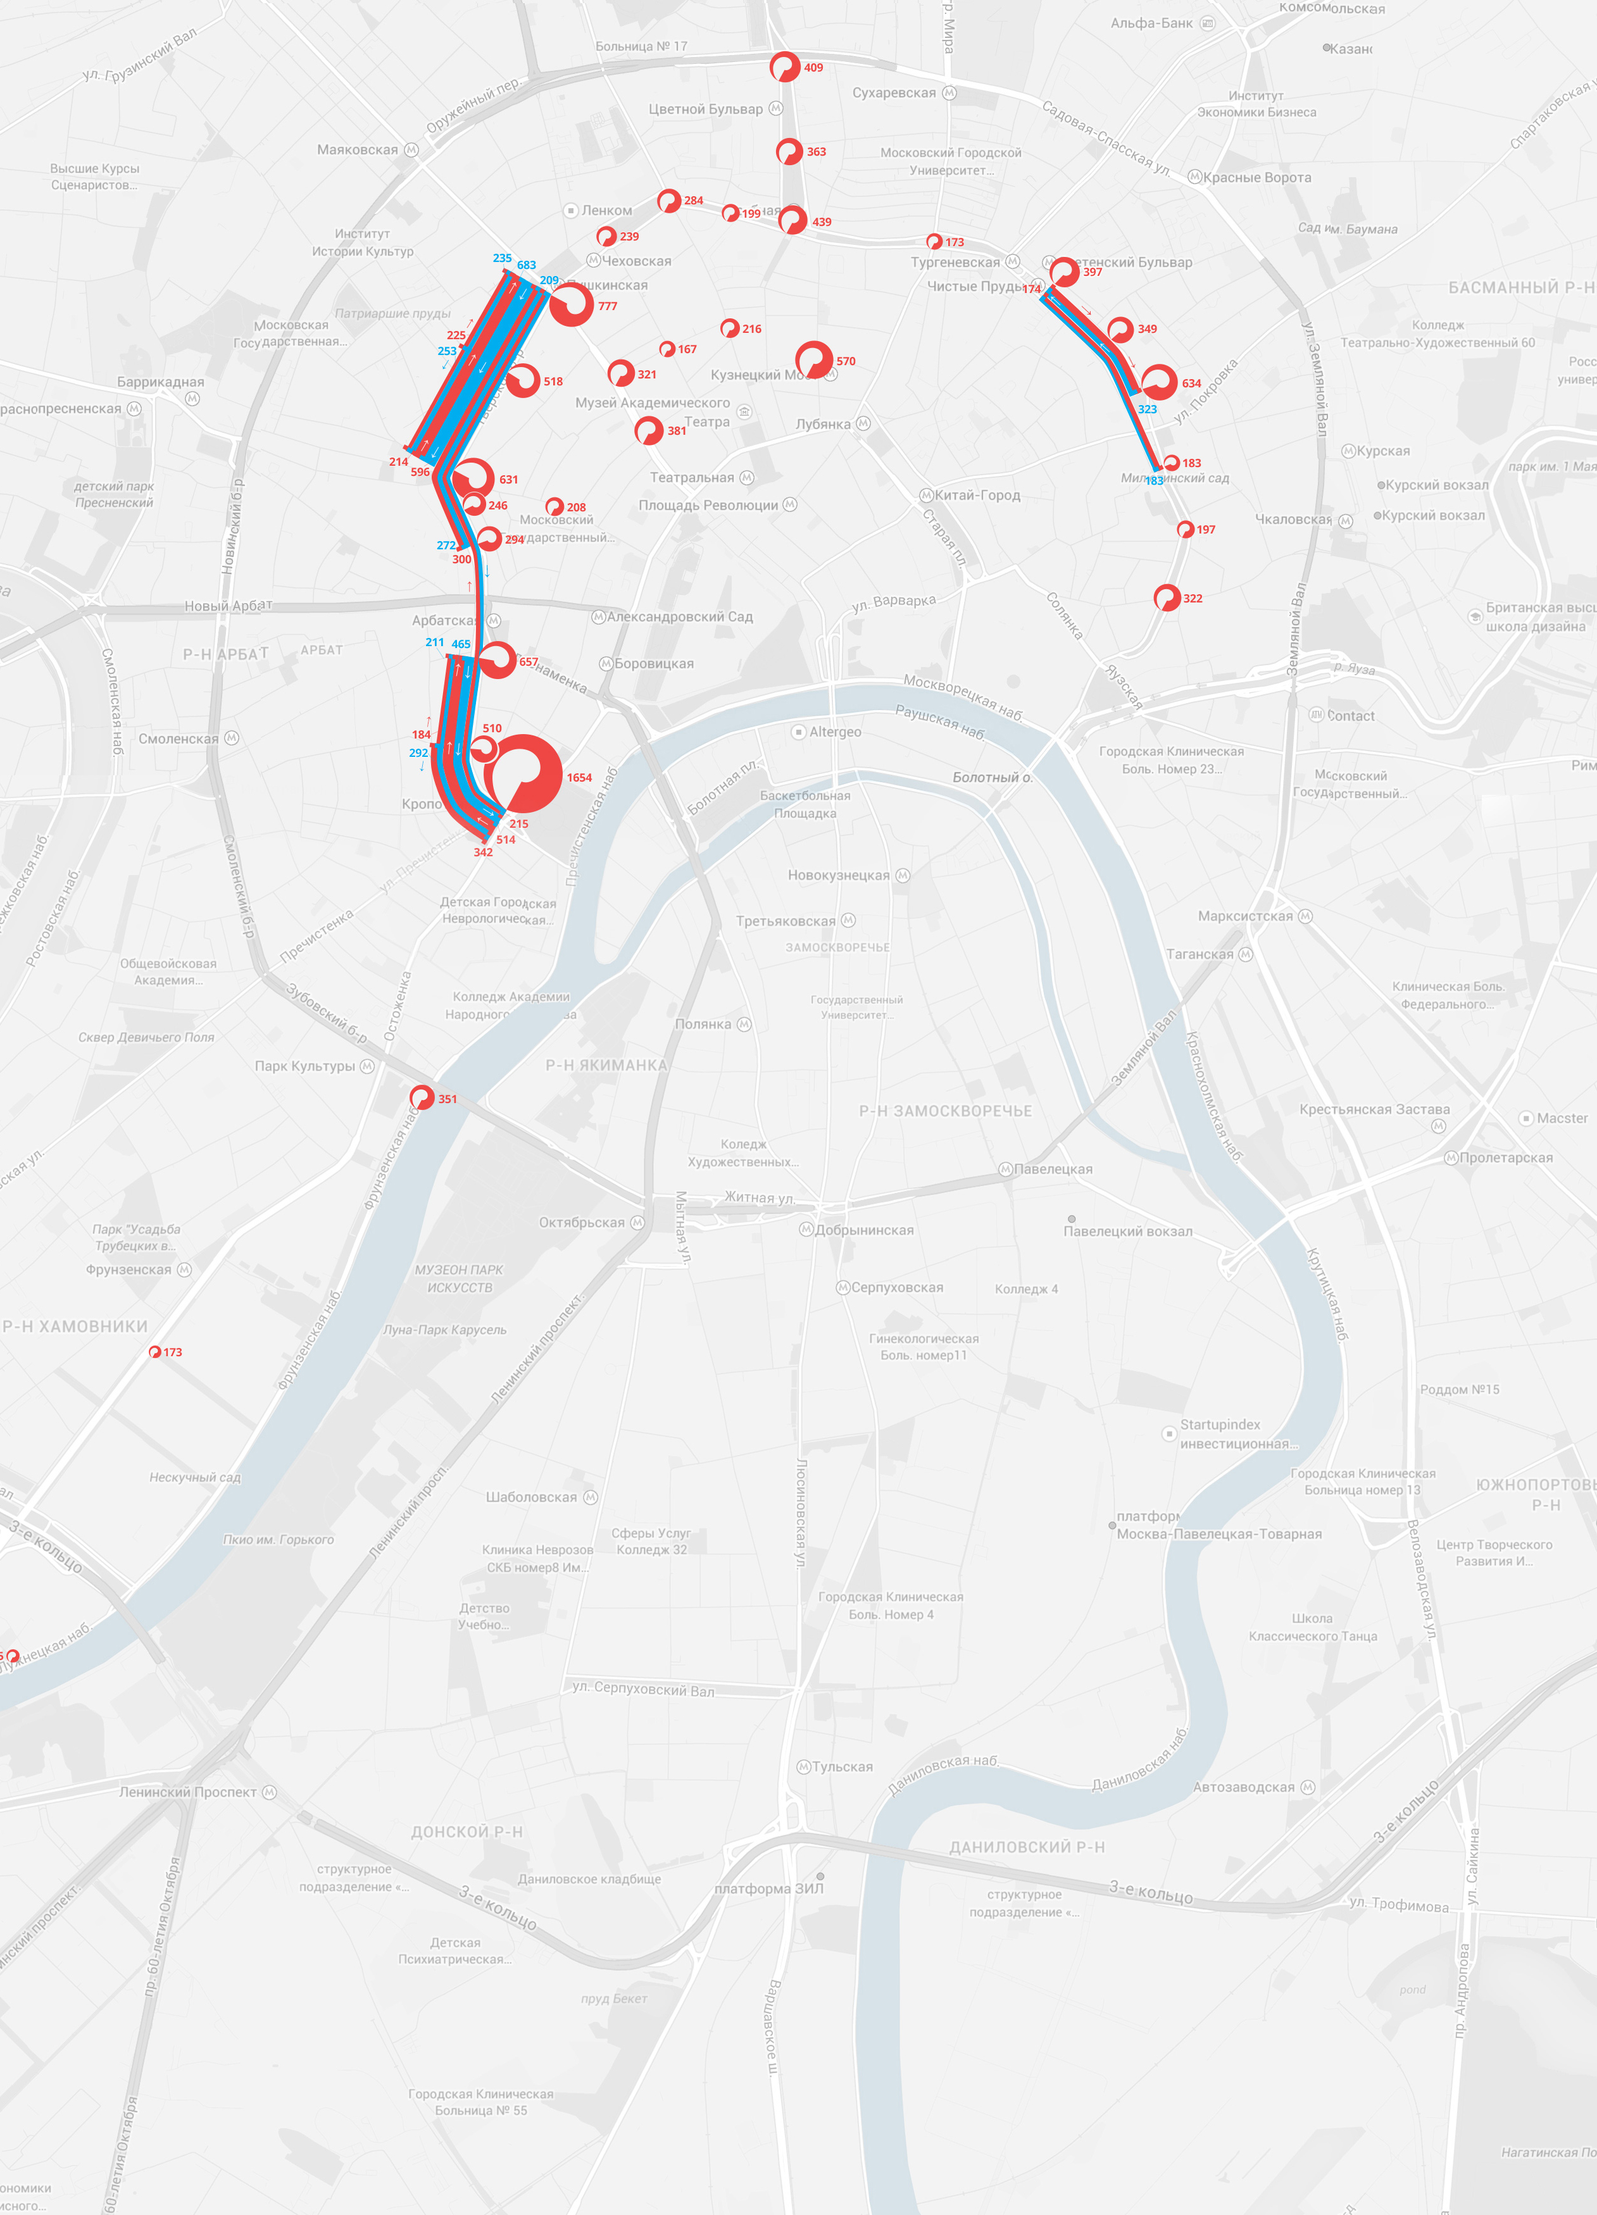
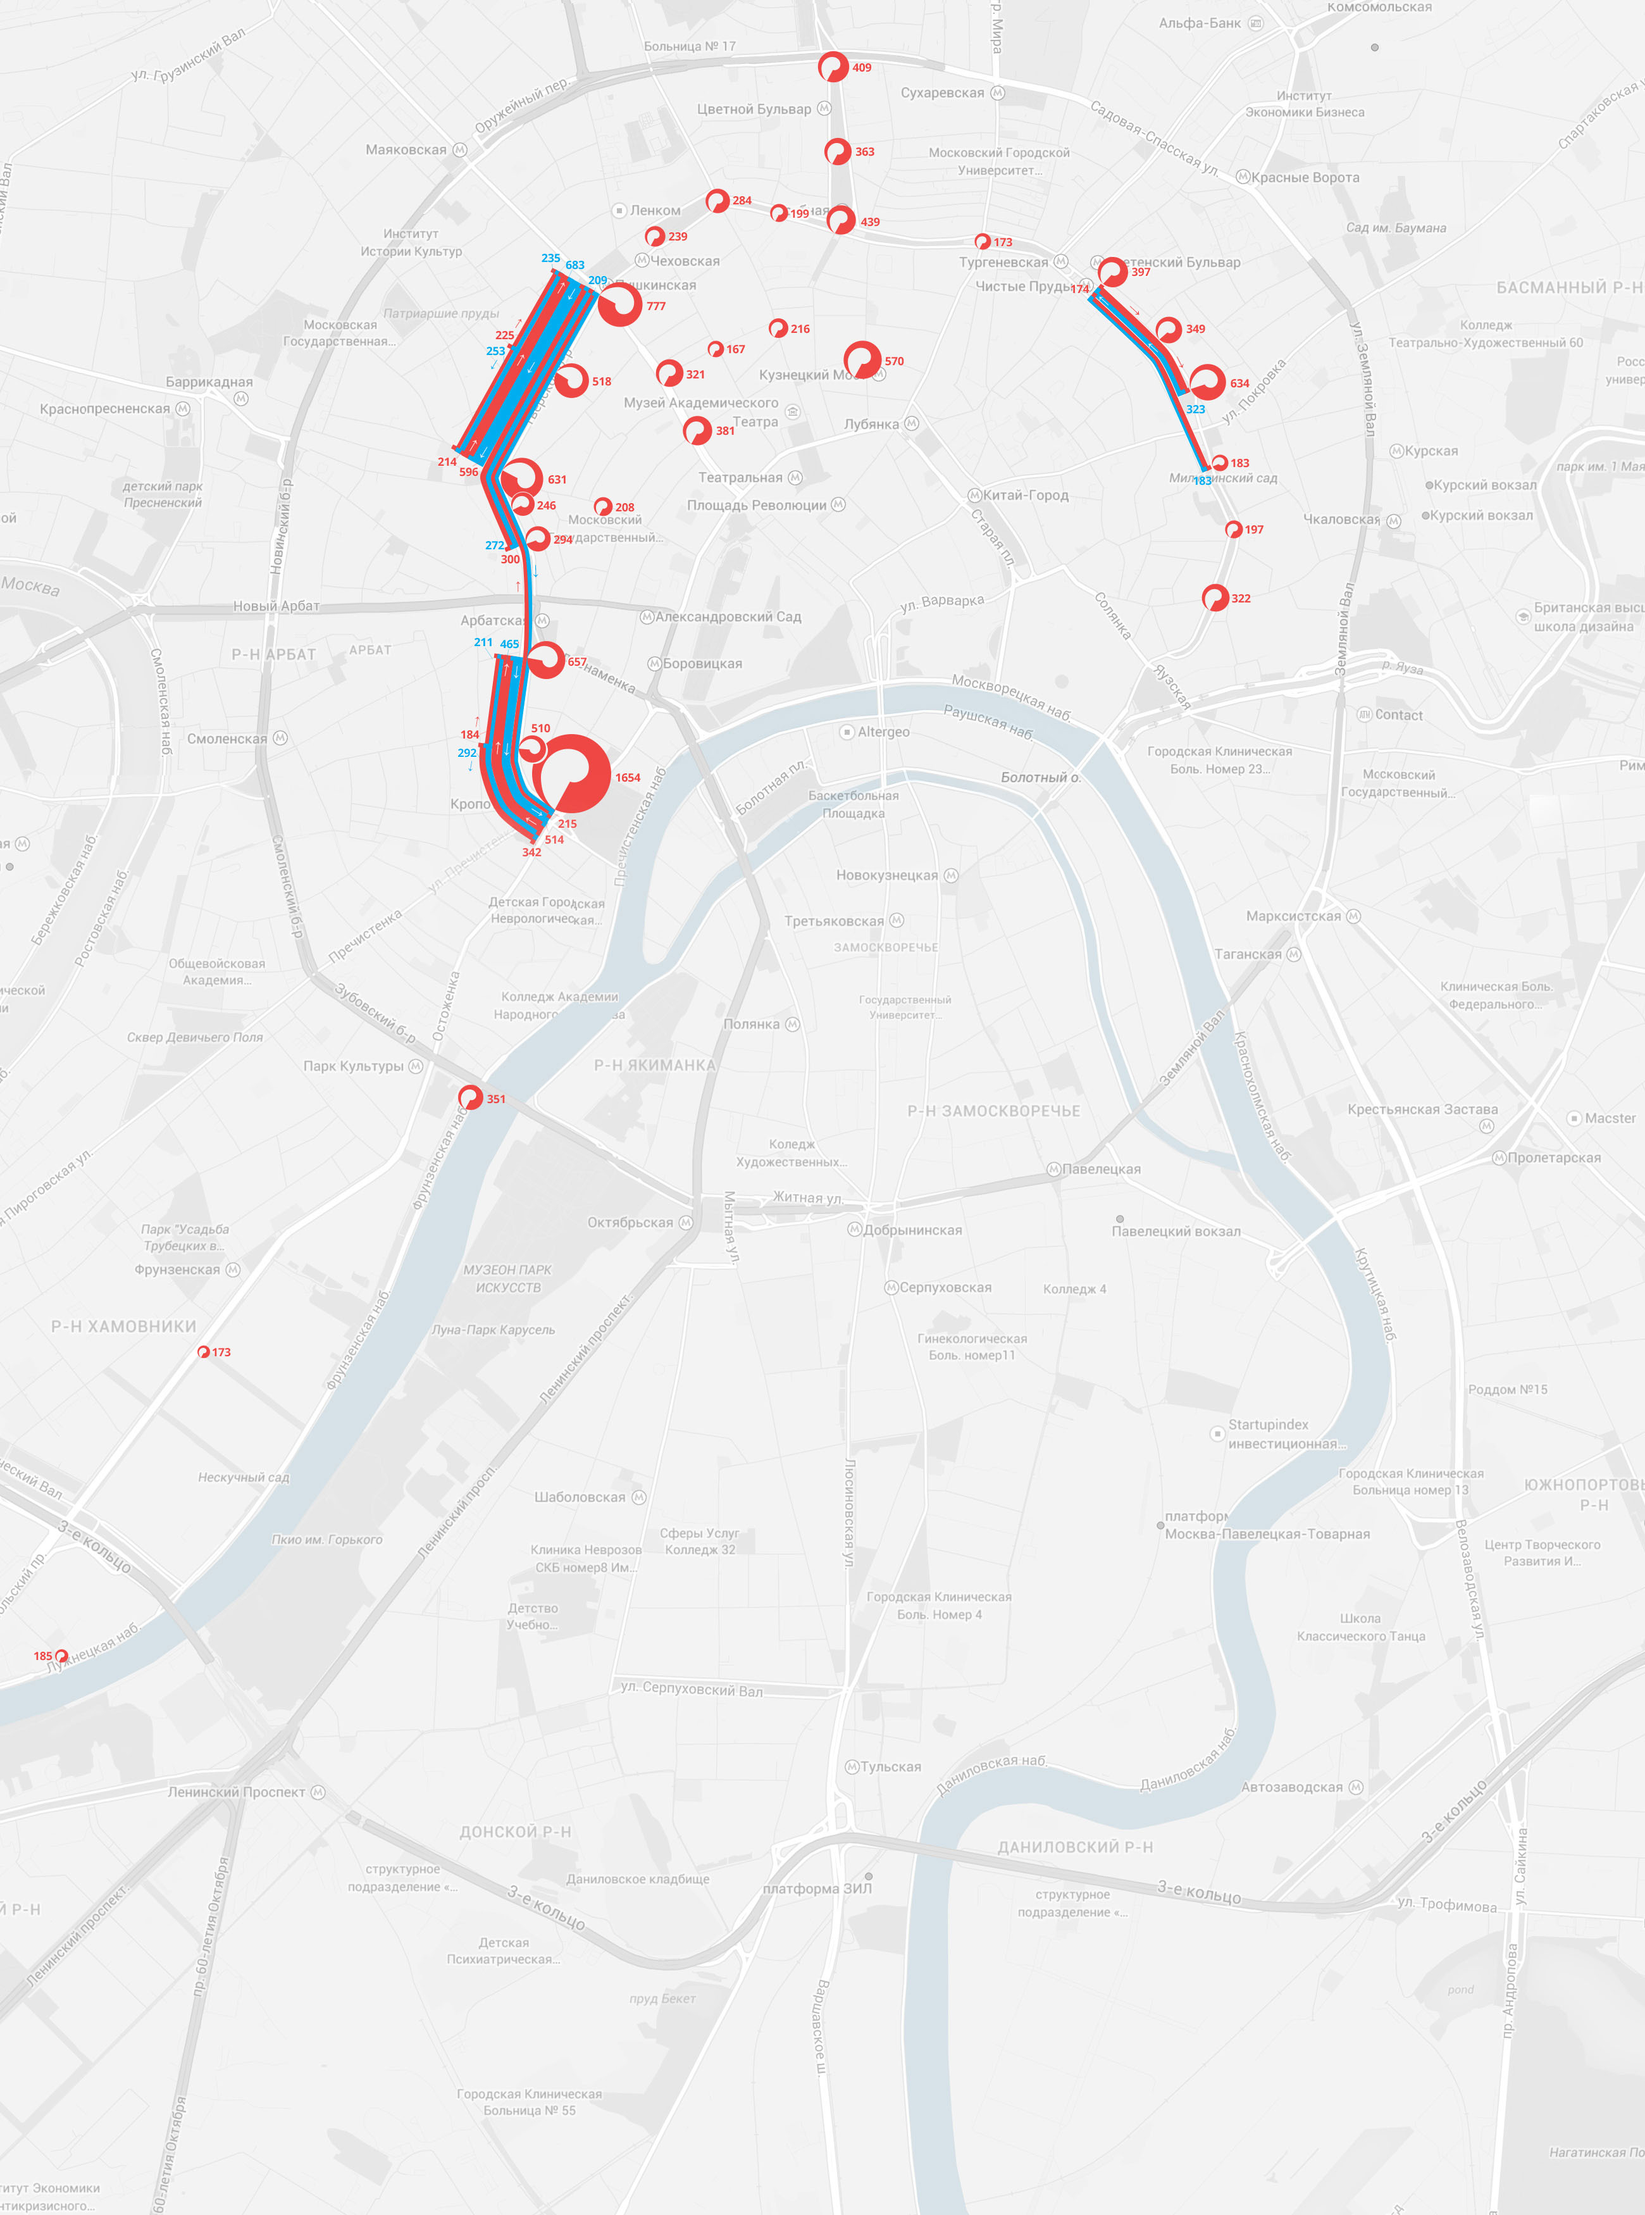
map and legend

diff --git a/index.html b/index.html
@@ -29,18 +29,20 @@
           $(".legend").css("margin-top",cl_H-342);
           $(".legend").css("width",610);
           $(".signature").css("width",170);
+          $(".signature").css("margin-left",40);
           if (cl_W < 700) {
-            $(".main").css({'background-image': "url(images/map-82-1.jpg)"});
+            $(".main").css({'background-image': "url(images/map-81.jpg)"});
+            $(".legend").css("margin-left", (cl_W-535)/2);
             if (cl_W < 570) {
               $(".legend").css("width",320);
               $(".signature").css("width",320);
               $(".signature").css("margin-left",20);
-              $(".legend").css("margin-left", cl_W-355);
+              $(".legend").css("margin-left", (cl_W-345)/2);
               $(".legend").css("margin-top",cl_H-380);
               if (cl_W < 400) {
-                  $(".main").css({'background-image': "url(images/map-82-1.jpg)"});
+                  $(".main").css({'background-image': "url(images/map-81.jpg)"});
                 } else {
-                   $(".main").css({'background-image': "url(images/map-82-1.jpg)"});
+                   $(".main").css({'background-image': "url(images/map-81.jpg)"});
                 }
             } 
           }
@@ -83,18 +85,20 @@
           $(".legend").css("margin-top",cl_H-342);
           $(".legend").css("width",610);
           $(".signature").css("width",170);
+          $(".signature").css("margin-left",40);
           if (cl_W < 700) {
-            $(".main").css({'background-image': "url(images/map-82-1.jpg)"});
+            $(".main").css({'background-image': "url(images/map-81.jpg)"});
+            $(".legend").css("margin-left", (cl_W-535)/2);
             if (cl_W < 570) {
               $(".legend").css("width",320);
               $(".signature").css("width",320);
               $(".signature").css("margin-left",20);
-              $(".legend").css("margin-left", cl_W-355);
+              $(".legend").css("margin-left", (cl_W-345)/2);
               $(".legend").css("margin-top",cl_H-380);
               if (cl_W < 400) {
-                  $(".main").css({'background-image': "url(images/map-82-1.jpg)"});
+                  $(".main").css({'background-image': "url(images/map-81.jpg)"});
                 } else {
-                   $(".main").css({'background-image': "url(images/map-82-1.jpg)"});
+                   $(".main").css({'background-image': "url(images/map-81.jpg)"});
                 }
             } 
           }
@@ -119,6 +123,7 @@
           $(".main").css({'background-image': "url(images/map-80-1.jpg)"});
           $(".legend").css("width",610);
           $(".signature").css("width",170);
+          $(".signature").css("margin-left",40);
         }
         
       });
